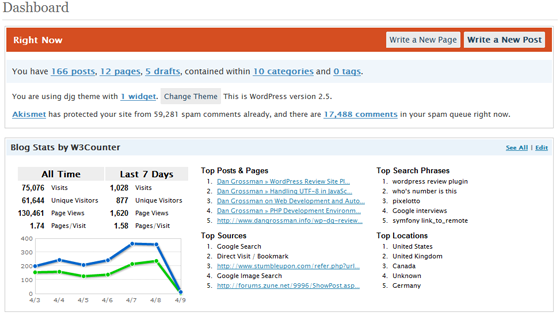
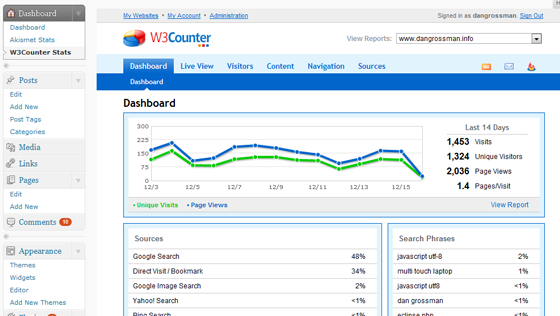
git-svn-id: https://plugins.svn.wordpress.org/blog-stats-by-w3counter/trunk@183396 b8457f37-d9ea-0310-8a92-e5e31aec5664

diff --git a/w3counter.php b/w3counter.php
@@ -4,135 +4,157 @@
 
 Plugin Name:  Blog Stats by W3Counter
 Plugin URI:   http://www.w3counter.com/resources/wordpress-plugin
-Description:  Displays statistics for your blog recorded by W3Counter.
-Version:      1.0.4
+Description:  Display stats for your blog on the dashboard and add the tracking code to your site with a widget
+Version:      2.0
 Author:       Dan Grossman
 Author URI:   http://www.dangrossman.info
 
 **************************************************************************/
 
-class W3Counter {
+function w3counter_init() {
+        add_action('admin_menu', 'w3counter_config_page');
+        add_action('admin_menu', 'w3counter_stats_page');
+}
+add_action('init', 'w3counter_init');
 
-	function W3Counter() {
+function w3counter_admin_init() {
+        if ( function_exists( 'get_plugin_page_hook' ) )
+                $hook = get_plugin_page_hook( 'w3counter-stats-display', 'index.php' );
+        else
+                $hook = 'dashboard_page_w3counter-stats-display';
+        add_action('admin_head-'.$hook, 'w3counter_stats_script');
+}
+add_action('admin_init', 'w3counter_admin_init');
+
+function w3counter_config_page() {
+        if ( function_exists('add_submenu_page') )
+                add_submenu_page('options-general.php', __('W3Counter'), __('W3Counter'), 'manage_options', 'w3counter-config', 'w3counter_conf');
+
+}
+
+function w3counter_stats_page() {
+        if ( function_exists('add_submenu_page') )
+                add_submenu_page('index.php', __('W3Counter Stats'), __('W3Counter Stats'), 'manage_options', 'w3counter-stats-display', 'w3counter_stats_display');
+
+}
+
+function w3counter_stats_script() {
+        ?>
+	<script type="text/javascript">
+	function resizew3Iframe() {
+	    var height = document.documentElement.clientHeight;
+	    height -= document.getElementById('w3counter-stats-frame').offsetTop;
+	    height += 100; // magic padding
 	
-		add_action('wp_dashboard_setup', array(&$this, 'register_widget'));
-		add_filter('wp_dashboard_widgets', array(&$this, 'add_widget'));
-        register_sidebar_widget(array('W3Counter Tracker', 'widgets'), array(&$this, 'widget_sidebar'));
-        register_widget_control(array('W3Counter Tracker', 'widgets'), array(&$this, 'widget_sidebar_control'));
-        
+	    document.getElementById('w3counter-stats-frame').style.height = height +"px";
+	
+	};
+	function resizew3IframeInit() {
+	        document.getElementById('w3counter-stats-frame').onload = resizew3Iframe;
+	        window.onresize = resizew3Iframe;
 	}
-	
-	function register_widget() {
-		wp_add_dashboard_widget('w3counter', 'Blog Stats by W3Counter', array(&$this, 'widget'), array(&$this, 'widget_control'));
-	} 
+	addLoadEvent(resizew3IframeInit);
+	</script><?php
+}
 
-		
-	function add_widget($widgets) {
+
+function w3counter_stats_display() {
 	
-		global $wp_registered_widgets;
+	$w3counter_id = get_option('w3counter_id');
+	$w3counter_user = get_option('w3counter_user');
+	$w3counter_pass = get_option('w3counter_pass');
+
+	if (empty($w3counter_user)) {
+
+		echo "<div class='wrap'><p>You must configure the plugin first. Click W3Counter under the Settings menu.</p></div>";
 		
-		if (!isset($wp_registered_widgets['w3counter']) ) return $widgets;
-		array_splice($widgets, 0, 0, 'w3counter');
-		
-		return $widgets;
-		
+	} else {
+
+		$url = 'http://www.w3counter.com/stats/' . $w3counter_id . '?wordpress=1&username=' . $w3counter_user . '&password=' . $w3counter_pass;
+	
+        	?>
+       		<div class="wrap">
+        	<iframe src="<?php echo $url; ?>" width="100%" height="100%" frameborder="0" id="w3counter-stats-frame"></iframe>
+        	</div>
+        	<?php
+
 	}
+}
+
+function w3counter_conf() {
+
+	if (isset($_POST['w3counter_id'])) {
+		update_option('w3counter_id', $_POST['w3counter_id']);
+		update_option('w3counter_user', $_POST['w3counter_user']);
+		update_option('w3counter_pass', $_POST['w3counter_pass']);
+	}
+	$w3counter_id = get_option('w3counter_id');
+	$w3counter_user = get_option('w3counter_user');
+	$w3counter_pass = get_option('w3counter_pass');
+?>
+
+<div class="wrap">
+        <div id="icon-options-general" class="icon32"><br /></div>
+
+        <h2>W3Counter Configuration</h2>
+
+        <form method="post" action="">
+
+		<?php if (isset($_POST['w3counter_id'])) echo 'Changes saved.<br />'; ?>
 	
-    function widget($args = null) {
-    
-    	if (!empty($args) && is_array($args))
-        	extract($args, EXTR_SKIP);
-        	
-        $widget_id = 'w3counter';
+                <table class="form-table">
+                        <tr valign="top">
+				<th scope="row"><label>Your Website ID:</label></th>
+				<td>
+					<input type="text" name="w3counter_id" value="<?php echo $w3counter_id; ?>" />
+				</td>
+			</tr>
+			<tr>
+				<th></th>
+				<td>
+					Your website ID is the number you see in the address bar when viewing your web stats at <a href="http://www.w3counter.com/stats/" target="_blank">W3Counter.com</a>. 
+					The image below shows where you can find it. Enter the number for the website associated with this blog.<br /><br />
+					<img src="http://www.w3counter.com/stats/images/plugin.png" />
+				</td>
+			</tr>
+                        <tr valign="top">
+                                <th scope="row"><label>Your W3Counter Username:</label></th>
+                                <td>
+                                        <input type="text" name="w3counter_user" value="<?php echo $w3counter_user; ?>" />
+                                </td>
+                        </tr>
+			<tr>
+				<th scope="row"><label>Your W3Counter Password:</label></th>
+				<td>
+					<input type="password" name="w3counter_pass" value="<?php echo $w3counter_pass; ?>" />
+                                </td>
+                        </tr>
+		</table>
 
-        echo $before_widget;
+		<br /><br />
+		<input type="submit" value="Save Changes" class="button" />
 
-        echo $before_title;
-        echo $widget_name;
-        echo $after_title;
+	</form>
+</div>
 
-        if (!$widget_options = get_option('dashboard_widget_options' ))
-                $widget_options = array();
+<?php 
+}
 
-        if (!isset($widget_options[$widget_id]))
-                $widget_options[$widget_id] = array();
+class WP_Widget_W3Counter extends WP_Widget {
 
-        if (!isset($widget_options[$widget_id]['id'])) {
-                echo "<b>Blog Stats by W3Counter</b> has not yet been configured. Click the edit link above.";
-        } else {
-        
-        		$id = $widget_options[$widget_id]['id'];
-    			$key = md5($widget_options[$widget_id]['password']);
-    			    		
-                ?>
-
-                <script type="text/javascript">
-                /* <![CDATA[ */
-                jQuery( function($) {
-                        var w3counter = $('#w3counter .inside');
-                        var h = parseInt( w3counter.parent().height() ) - parseInt( w3counter.prev().height()) - 20;
-                        var w = w3counter.width();
-                        w3counter.height(240);
-                        w3counter.html('<iframe src="http://www.w3counter.com/stats/wp-dashboard/<?php echo $id; ?>?key=<?php echo $key; ?>&width=' + w.toString() + '" style="width: ' + w.toString() + 'px; height: 240px; border: none; margin: 0; padding: 0" frameborder="0"></iframe>');
-                } );
-                /* ]]> */
-                </script>
-
-                <?php
+        function WP_Widget_W3Counter() {
+		$widget_ops = array('classname' => 'WP_Widget_W3Counter', 'description' => __( 'Adds the W3Counter tracking code to your sidebar') );
+                $this->WP_Widget('w3counter', __('W3Counter'), $widget_ops);
         }
 
-        echo $after_widget;
-        
-    }
-	
-	function widget_control($args = null) {
-	
-		if (!empty($args) && is_array($args))
-			extract($args, EXTR_SKIP);
-					
-		$widget_id = 'w3counter';
+        function widget( $args, $instance ) {
+                extract($args);
 		
-		if (!$widget_options = get_option('dashboard_widget_options'))
-			$widget_options = array();
+		$w3counter_id = get_option('w3counter_id');
 
-		if (!isset($widget_options[$widget_id]))
-			$widget_options[$widget_id] = array();
-
-		if ('POST' == $_SERVER['REQUEST_METHOD'] && isset($_POST['widget-w3counter'])) {
-			$widget_options[$widget_id] = stripslashes_deep($_POST['widget-w3counter']);												
-			update_option('dashboard_widget_options', $widget_options);
-		}
-		
-		echo "<p><label for='w3counter-id'>";
-		_e('What is your W3Counter website ID?', 'w3counter');
-		echo "</label><br /><input type='text' name='widget-w3counter[id]' size='4' value='" . $widget_options[$widget_id]['id'] . "'></p>";
-		
-		echo "<p><label for='w3counter-password'>If you did not enable public stats when adding your website, then what is your W3Counter password?</label>";
-		echo "<br /><input type='password' name='widget-w3counter[password]' size='10' value='" . $widget_options[$widget_id]['password'] . "'></p>";
-		
-		
-	}
-	
-	function widget_sidebar($args = null) {
-	
-			if (!empty($args) && is_array($args))
-	        	extract($args, EXTR_SKIP);
-	
-	        $widget_id = 'w3counter';
-	
-	        if (!$widget_options = get_option('dashboard_widget_options'))
-	                $widget_options = array();
-	
-	        if (!isset($widget_options[$widget_id]))
-	                $widget_options[$widget_id] = array();
-	
-	        if ($widget_options[$widget_id]['align'] == 'center') {
-	                echo "<div style='text-align: center; margin: 0; padding: 0'>";
-	        }
-	
-	        echo $before_widget;
-	
-	        ?>
+                echo $before_widget;
+                echo '<div id="w3counter_wrap">';
+?>
 <!-- Begin W3Counter Tracking Code -->
 <script type="text/javascript" src="http://www.w3counter.com/tracker.js"></script>
 <script type="text/javascript">
@@ -141,64 +163,29 @@ if (!empty($_COOKIE['comment_author_' . COOKIEHASH])) {
         echo "_w3counter_label = '" . $_COOKIE['comment_author_' . COOKIEHASH] . "';\n";
 }
 ?>
-w3counter(<?php echo $widget_options[$widget_id]['id']; ?>);
+w3counter(<?php echo $w3counter_id; ?>);
 </script>
 <noscript>
-<div><a href="http://www.w3counter.com"><img src="http://www.w3counter.com/tracker.php?id=<?php echo $widget_options[$widget_id]['id']; ?>" style="border: 0" alt="W3Counter Web Stats" /></a></div>
+<div><a href="http://www.w3counter.com"><img src="http://www.w3counter.com/tracker.php?id=<?php echo $w3counter_id; ?>" style="border: 0" alt="W3Counter" /></a></div>
 </noscript>
 <!-- End W3Counter Tracking Code-->
-	        <?php
-	
-	        if ($widget_options[$widget_id]['align'] == 'center') {
-	                echo "</div>";
-	        }
-	
-	        echo $after_widget;
-	
+<?php
+                echo '</div>';
+                echo $after_widget;
+        }
+
+        function update( $new_instance, $old_instance ) {
+                $instance = $old_instance;
+                return $instance;
+        }
+
+        function form( $instance ) {
 	}
-	
-    function widget_sidebar_control($args = null) {
-    
-    		if (!empty($args) && is_array($args))
-            	extract($args, EXTR_SKIP);
-
-            $widget_id = 'w3counter';
-
-            if (!$widget_options = get_option('dashboard_widget_options'))
-                    $widget_options = array();
-
-            if (!isset($widget_options[$widget_id])) {
-                    $widget_options[$widget_id] = array();
-                    $widget_options[$widget_id]['align'] = 'left';
-            }
-
-            if ('POST' == $_SERVER['REQUEST_METHOD'] && isset($_POST['widget-w3counter'])) {
-                    if (!isset($_POST['widget-w3counter']['align'])) {
-                            $_POST['widget-w3counter']['align'] = 'left';
-                    } else {
-                            $_POST['widget-w3counter']['align'] = 'center';
-                    }
-                    $widget_options[$widget_id] = stripslashes_deep($_POST['widget-w3counter']);
-                    update_option('dashboard_widget_options', $widget_options);
-            }
-
-            echo "<p><label for='w3counter-id'>";
-            _e('What is your W3Counter website ID?', 'w3counter');
-            echo "</label><br /><input type='text' name='widget-w3counter[id]' size='4' value='" . $widget_options[$widget_id]['id'] . "'></p>";
-
-            echo "<p><label for='w3counter-align'>";
-            _e('Center the tracking image?', 'w3counter');
-            echo "</label><br /><input type='checkbox' name='widget-w3counter[align]' ";
-            if ($widget_options[$widget_id]['align'] == 'center')
-                    echo "checked='checked'";
-            echo "/> Yes</p>";
-            
-    }
-
-	
 }
 
-add_action('plugins_loaded', create_function('', 'global $w3counter; if (empty($w3counter)) $w3counter = new W3Counter();'));
-add_action('widgets_init', create_function('', 'global $w3counter; if (empty($w3counter)) $w3counter = new W3Counter();'));
+add_action('widgets_init', 'w3counter_widget_init');
+function w3counter_widget_init() {
+	register_widget('WP_Widget_W3Counter');
+}
 
 ?>
